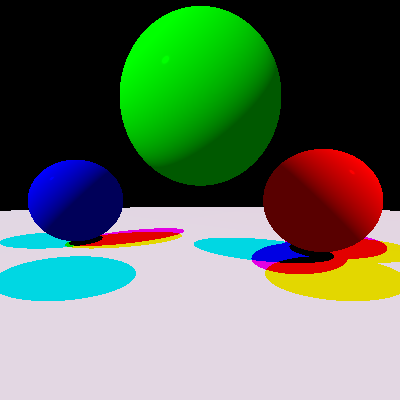
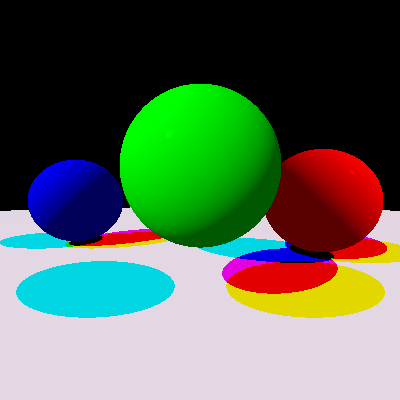
Abgabe-03

diff --git a/src/cgg/a02/Main.java b/src/cgg/a02/Main.java
@@ -19,6 +19,7 @@ public class Main {
 
     //Licht und Kamera erstellen
     ArrayList<Lichtquelle> licht = new ArrayList<>();
+    //licht.add(new Richtungslichtquelle(vec3(10,0,6), white));
     licht.add(new Richtungslichtquelle(vec3(10,-10,5), red));
     licht.add(new Richtungslichtquelle(vec3(-10,-10,5), blue));
     licht.add(new Richtungslichtquelle(vec3(-10,-10,10), green));
@@ -31,7 +32,7 @@ public class Main {
     k.add(new Kugel(vec3(0,1001,-15), 1000, white));
     k.add(new Kugel(vec3(2.3,0,-4), 1, red));
     k.add(new Kugel(vec3(-3,0,-5), 1, blue));
-    k.add(new Kugel(vec3(0,-0.9,-2), 0.75, green));
+    k.add(new Kugel(vec3(0,-0.3,-2), 0.75, green));
 
     Kugelgruppe kugelScene = new Kugelgruppe(k); //erstellt Szene mit Kugeln
 

diff --git a/src/cgg/a02/RayTracer.java b/src/cgg/a02/RayTracer.java
@@ -70,7 +70,8 @@ public record RayTracer(Lochkamera camera, Kugelgruppe kugeln, ArrayList<Lichtqu
                 raySchatten = new Ray(hit.getTrefferPunkt(), s, 0.0001, length(subtract(s, hit.getTrefferPunkt())));
             }
 
-            if(kugeln.intersect(raySchatten) != null && !kugeln.intersect(raySchatten).getKugel().equals(hit.getKugel())) {//wenn Hit nur eigene Kugel schneidet dann nicht rein
+            if(kugeln.intersect(raySchatten) != null && !kugeln.intersect(raySchatten).getKugel().equals(hit.getKugel())) { 
+                //nur wenn es Hit gibt und dieser nicht auf der gleichen Kugel ist continue
                 continue;
             }
 

diff --git a/src/cgg/a02/Kugel.java b/src/cgg/a02/Kugel.java
@@ -61,7 +61,8 @@ public class Kugel {
     }
 
     /**
-     * 
+     * @param obj zu vergleichende Kugel
+     * @return true wenn Kugeln gleich sind
      */
     @Override
     public boolean equals(Object obj) {
